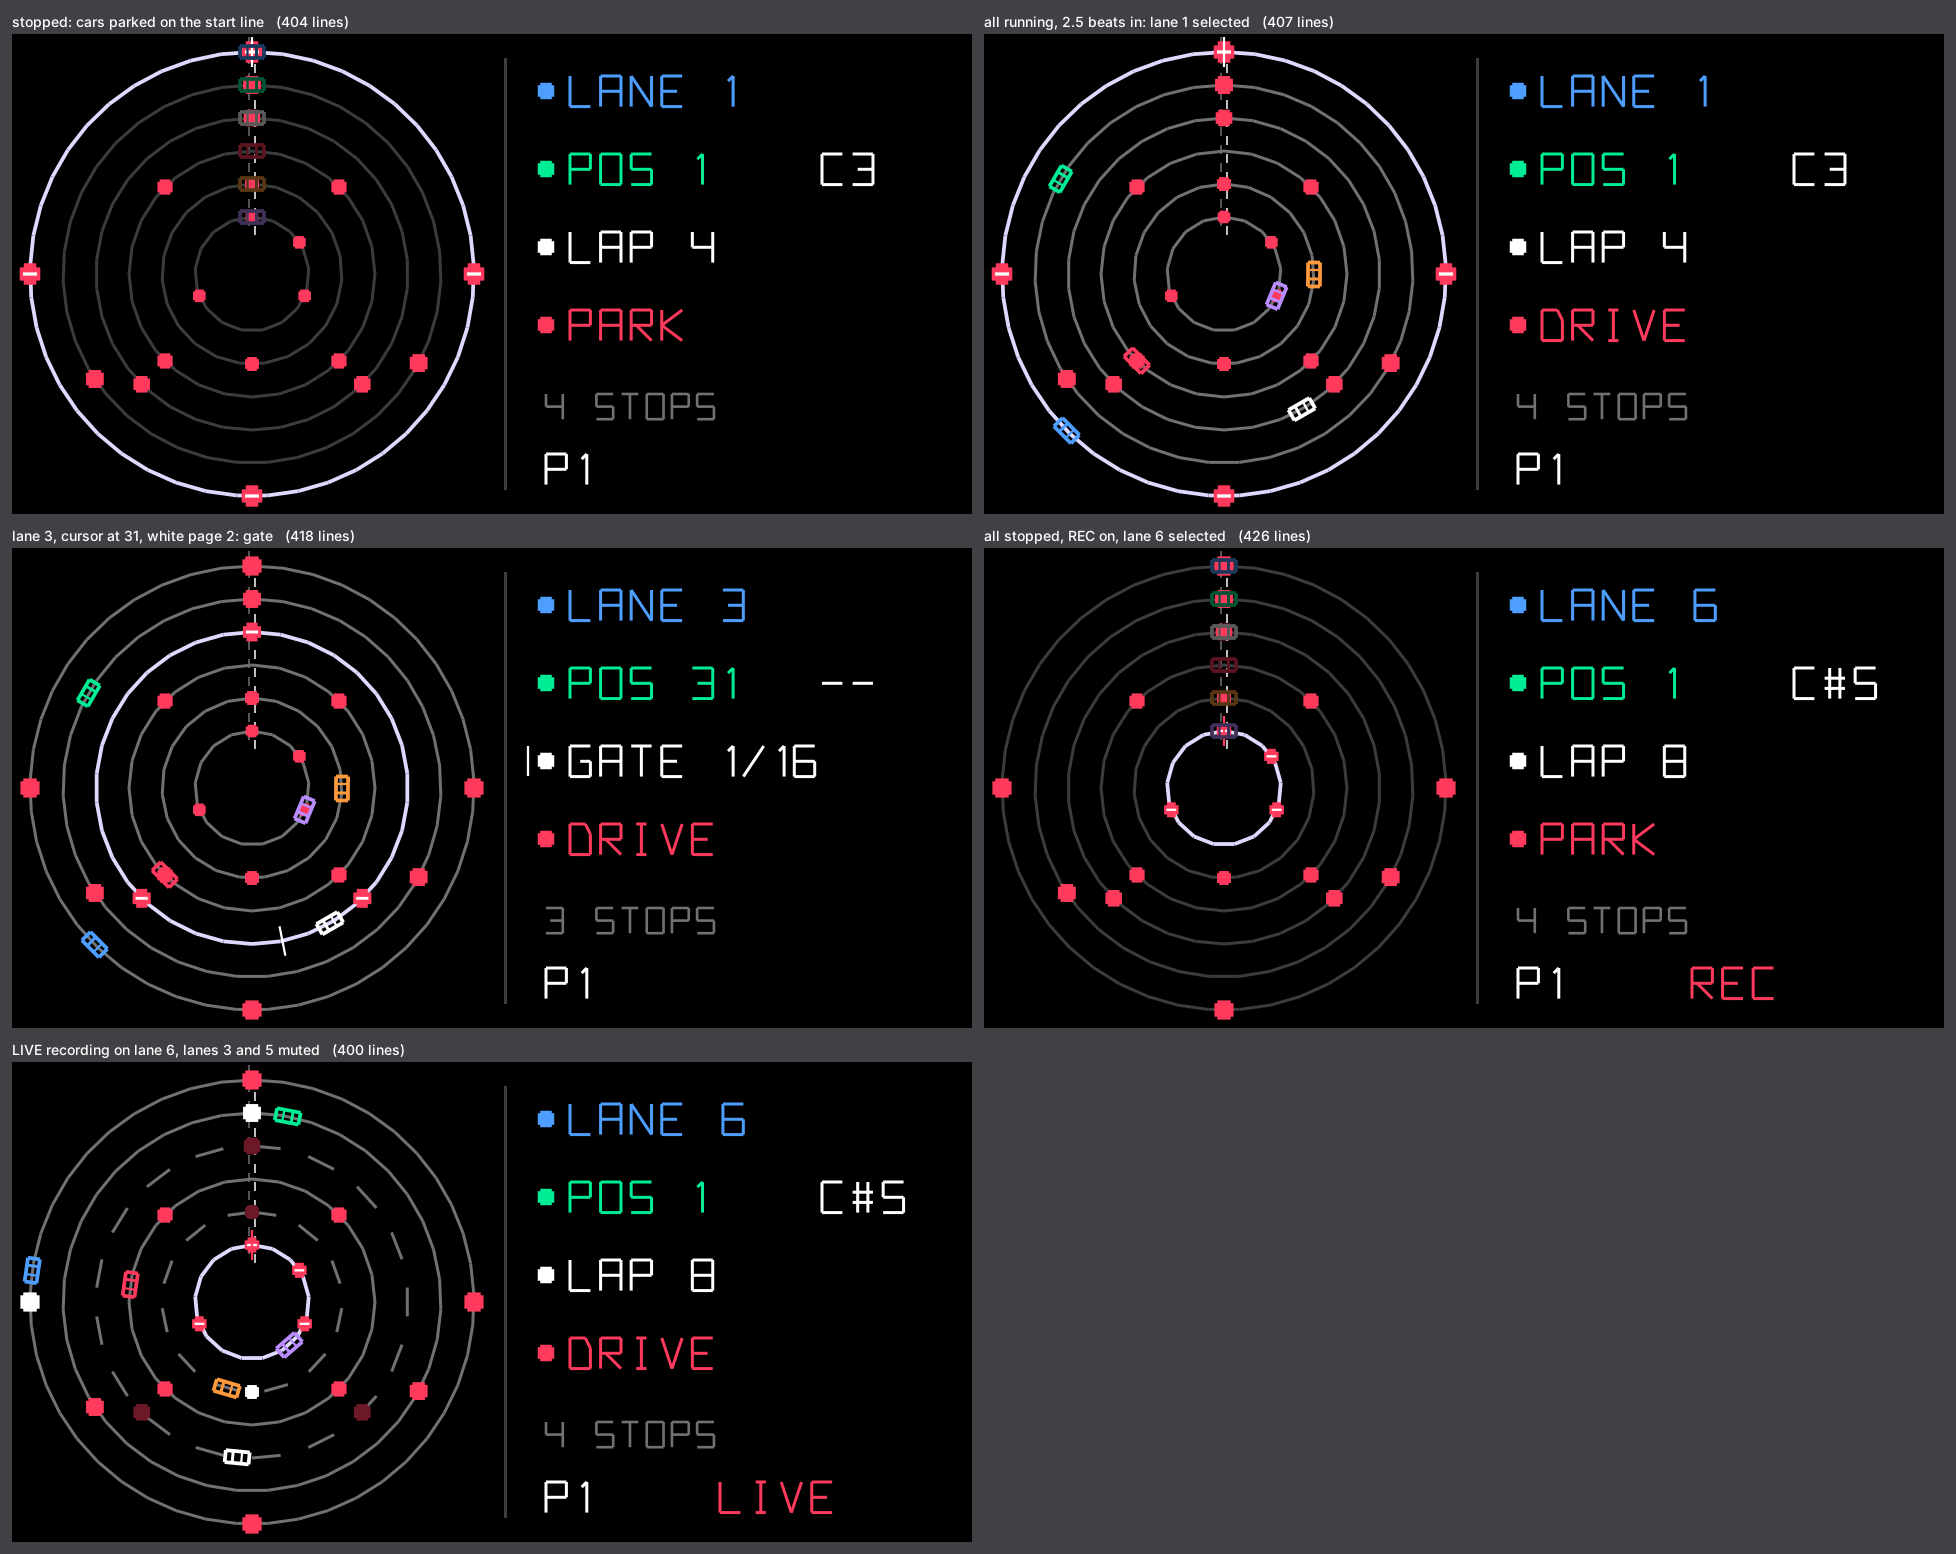
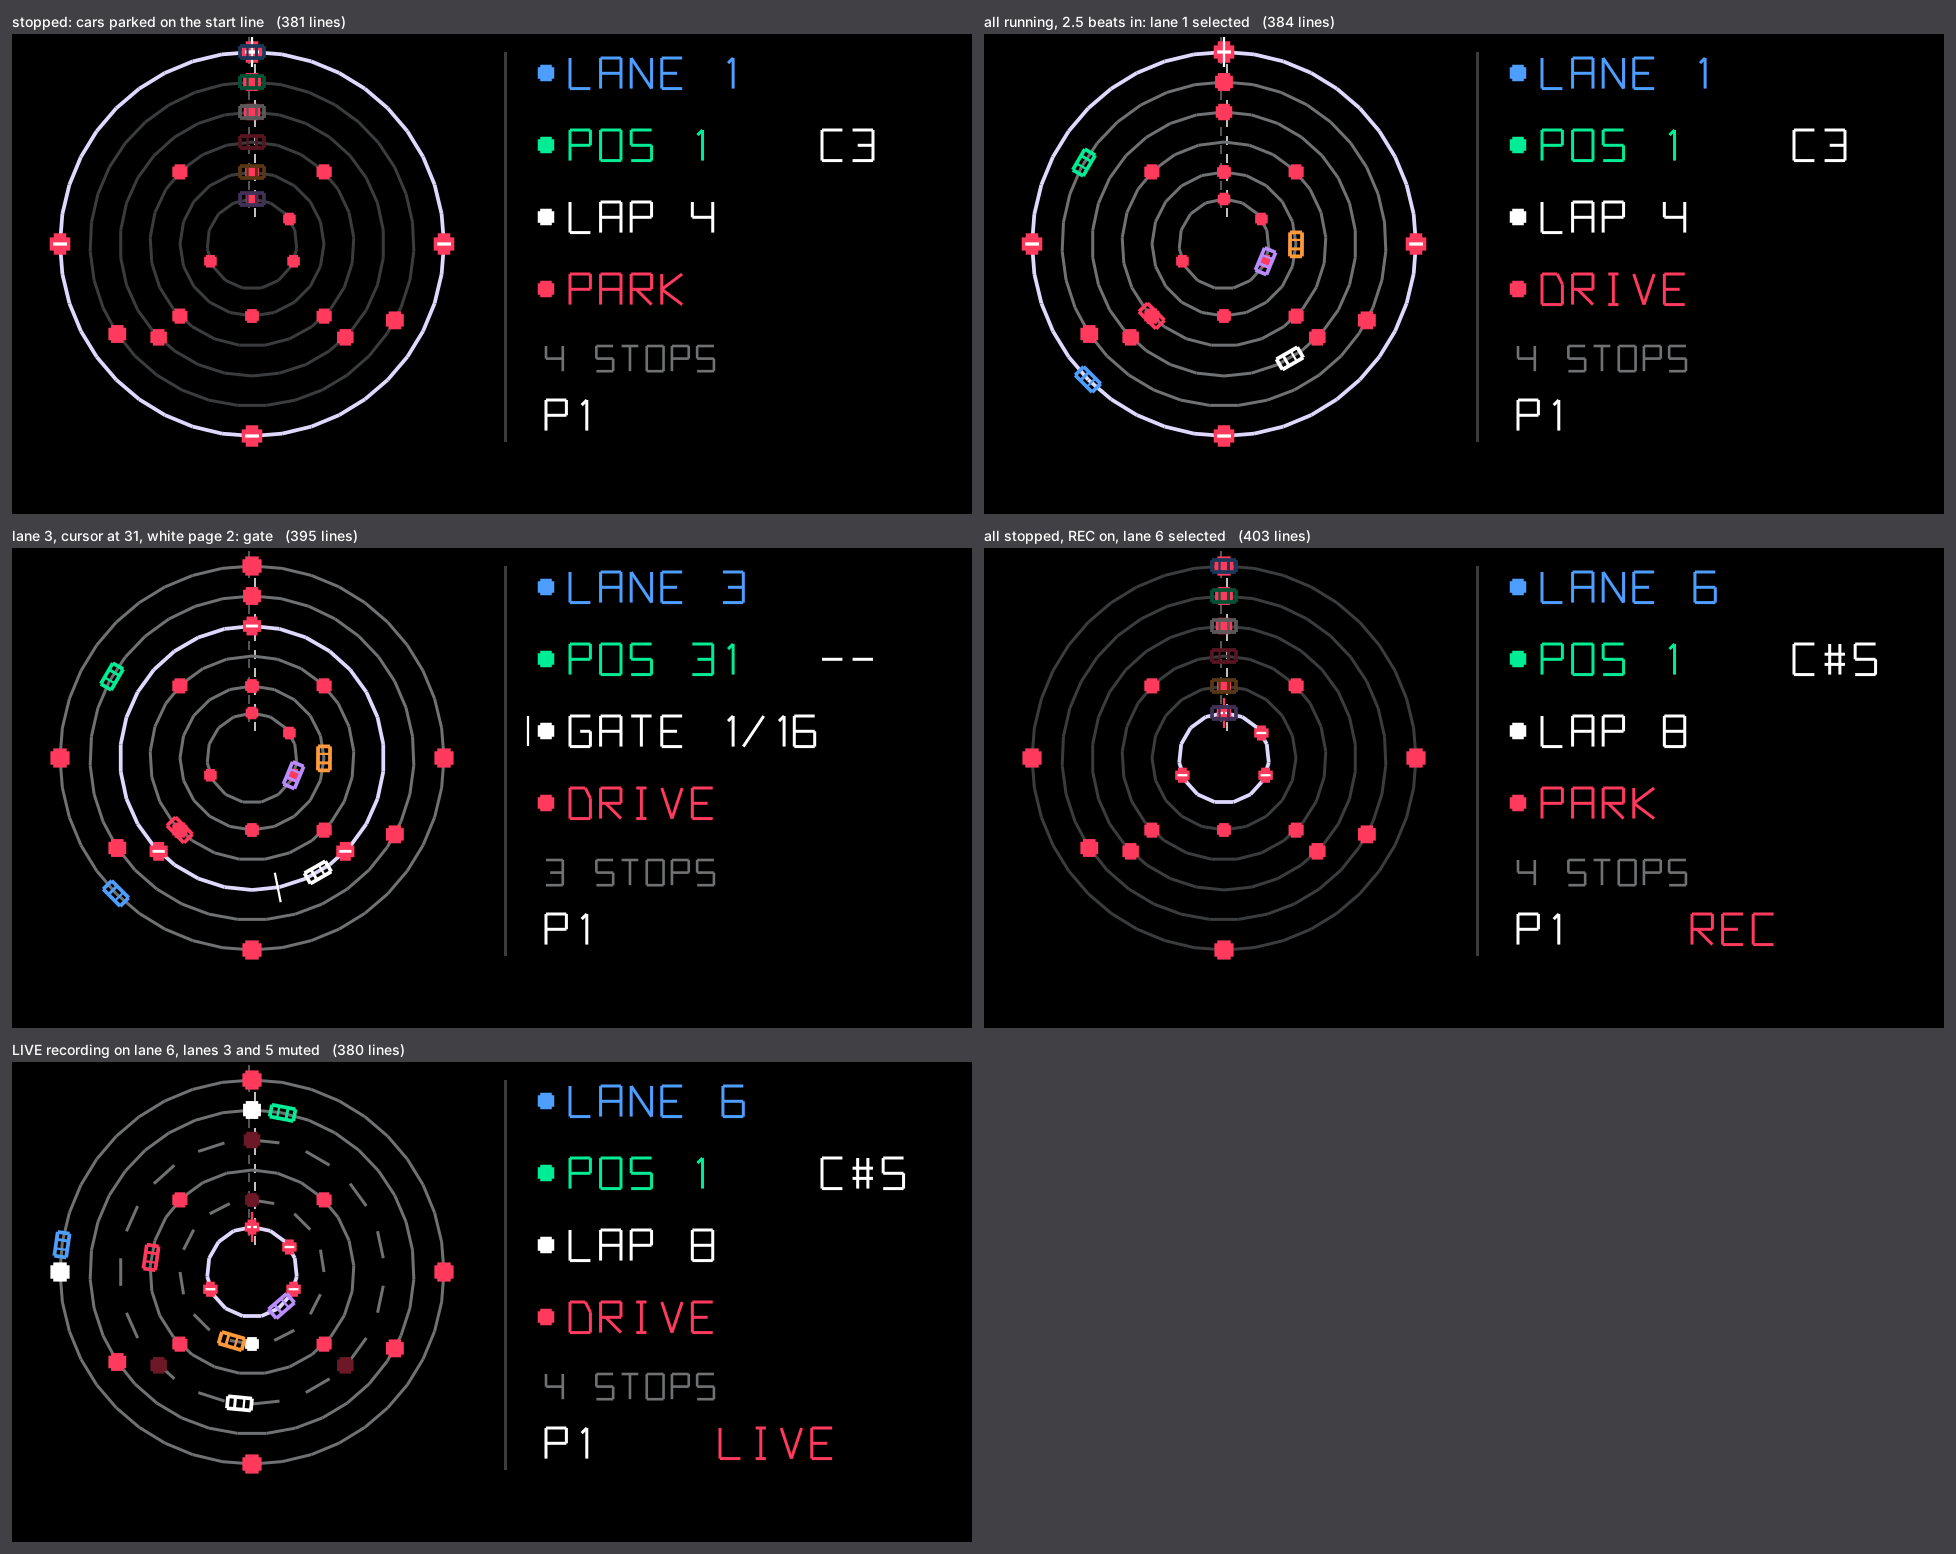
Track Racer screen: keep everything above the OP-1's hidden bottom rows
On the device the lowest ~15 px of the screen are not visible (the outer lane
and the bottom text row were cut). Track centre 80,80 -> 80,70, lane radii
74..19 -> 64..15, panel rows moved up: nothing is drawn below y = 140.

Claude-Session: https://claude.ai/code/session_013iVWGaSrKktbyAYruktruU

diff --git a/trackracer/trackracer.c b/trackracer/trackracer.c
@@ -460,7 +460,7 @@ int tr_parse_state(int pos, const char *s, int len)
 }
 
 /* ======================= screen (GUI thread) =======================
- * Left: the track, 6 concentric lanes around (80, 80), lane 1 the outer one; the start / finish line at the top
+ * Left: the track, 6 concentric lanes around (80, 70), lane 1 the outer one; the start / finish line at the top
  * (chequered); each lane's car where it is on its lap (stopped: parked on the start line, dim); stop signs on their
  * positions (selected lane: red octagons with the white band; other lanes: red dots), white for a moment when
  * played; the cursor (white, red while recording) across the selected lane.
@@ -468,8 +468,8 @@ int tr_parse_state(int pos, const char *s, int len)
  *   LANE n / POS p + the sign's note / LAP n (page 2: GATE x) / DRIVE or PARK (page 2: LVL n); bottom: P1..P4, REC.
  * The SVG (trackracer.svg) holds a divider only; everything else is raster lines (stroke text: seq_text.h). */
 #define TR_CX   80
-#define TR_CY   80
-static const uint8_t tr_r[TR_LANES] = { 74, 63, 52, 41, 30, 19 };
+#define TR_CY   70                                     /* the OP-1 hides the bottom rows: keep y <= ~138 */
+static const uint8_t tr_r[TR_LANES] = { 64, 54, 44, 34, 24, 15 };
 static const uint8_t tr_col[TR_LANES][4] = {            /* car colours: the encoder colours, then orange and violet */
     { 0x4D, 0x9E, 0xFF, 0xFF }, { 0x00, 0xED, 0x95, 0xFF }, { 0xFF, 0xFF, 0xFF, 0xFF },
     { 0xFF, 0x3A, 0x5D, 0xFF }, { 0xFF, 0x9A, 0x3C, 0xFF }, { 0xB9, 0x8C, 0xFF, 0xFF } };
@@ -566,7 +566,7 @@ static void tr_screen_draw(void *r, int pos)
             px = qx; py = qy;
         }
         /* stop signs; white for 1/16 beat after they play */
-        int32_t rs = OP1_Q10(sel ? 2.6 : 2.1) + (int32_t)((int64_t)OP1_Q10(1.1) * (tr_r[k] - 19) / 55);
+        int32_t rs = OP1_Q10(sel ? 2.6 : 2.1) + (int32_t)((int64_t)OP1_Q10(1.1) * (tr_r[k] - 15) / 49);
         for (int i = 0; i < TR_POS; i++) if (l->key[i] != TR_EMPTY) {
             int32_t x, y; tr_pt(i * 8192 / TR_POS, rad, &x, &y);
             int lit = car->hit == i && (uint32_t)(now >> 16) - car->hit_tick < TR_PPQN / 4;
@@ -596,7 +596,7 @@ static void tr_screen_draw(void *r, int pos)
     char t[24], *p;
     int32_t X = OP1_Q10(186), S = OP1_Q10(1.7), W = 0x400;
     for (int k = 0; k < 4; k++) {
-        int32_t y = OP1_Q10(14 + k * 26);
+        int32_t y = OP1_Q10(8 + k * 24);
         sq_dot(r, OP1_Q10(178), y + OP1_Q10(5), 0x1600, tr_knob[k]);
         if (b->page[k]) sq_line(r, OP1_Q10(172), y, OP1_Q10(172), y + OP1_Q10(10), 0x300, tr_knob[k]);   /* page 2 */
         p = t;
@@ -623,11 +623,11 @@ static void tr_screen_draw(void *r, int pos)
         int n = 0;
         for (int i = 0; i < TR_POS; i++) n += l->key[i] != TR_EMPTY;
         p = sq_num(t, (uint32_t)n, 0); sq_cat(p, n == 1 ? " STOP" : " STOPS");
-        sq_text(r, OP1_Q10(178), OP1_Q10(120), OP1_Q10(1.4), t, 0x380, tr_grey);
+        sq_text(r, OP1_Q10(178), OP1_Q10(104), OP1_Q10(1.4), t, 0x380, tr_grey);
     }
     t[0] = 'P'; t[1] = (char)('1' + b->pat); t[2] = 0;
-    sq_text(r, OP1_Q10(178), OP1_Q10(140), OP1_Q10(1.7), t, W, tr_white);
-    if (b->rec) sq_text(r, OP1_Q10(236), OP1_Q10(140), OP1_Q10(1.7), car->running ? "LIVE" : "REC", W, tr_red);
+    sq_text(r, OP1_Q10(178), OP1_Q10(122), OP1_Q10(1.7), t, W, tr_white);
+    if (b->rec) sq_text(r, OP1_Q10(236), OP1_Q10(122), OP1_Q10(1.7), car->running ? "LIVE" : "REC", W, tr_red);
 }
 
 static void tr_screen_update(void *scr, int dt, int pos)
